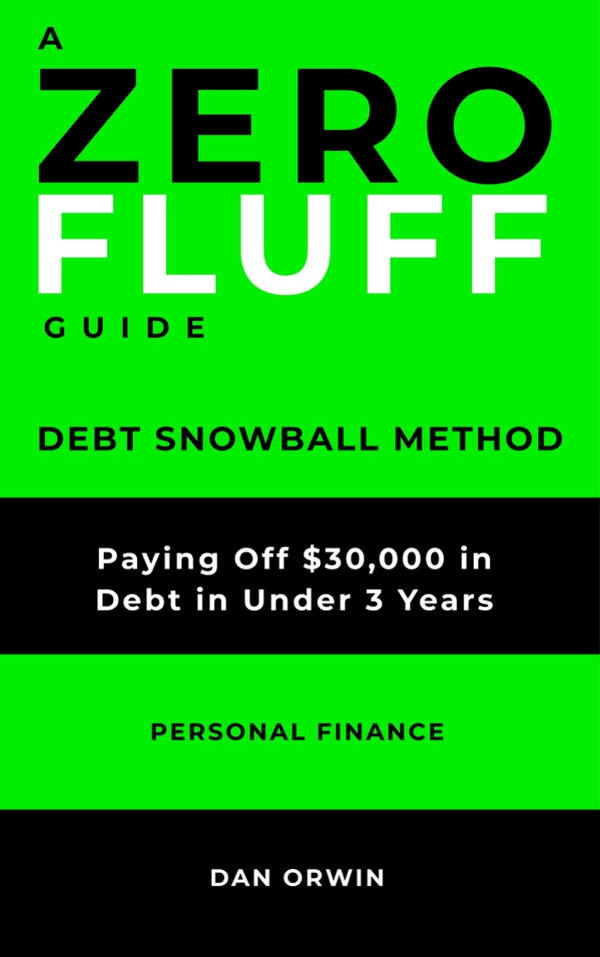
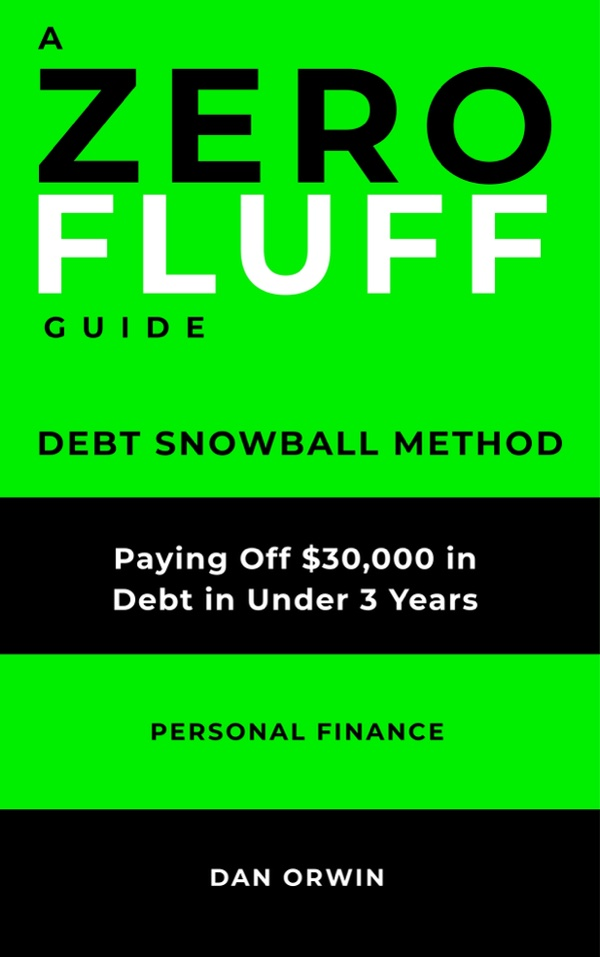
Debt Snowball: pf3 cover, ?v=3, niche strip matches cover height
- Library cover (600x957 q85) and 1200x630 share image rebuilt from
  Drive pf3.jpg; same paths and layout; image URLs bumped to ?v=3.
- The niche strip now sits with the cover in .book-cover-wrap, so it is
  exactly the cover's height (top and bottom aligned) at every width,
  for every book entry. Colour still comes from the niche class.
  Phone text keeps its old position via padding-left on .book-body.

Claude-Session: https://claude.ai/code/session_01VK39D9B8TVfYpwQ8aJiqLP

Changed region(s): [[0.15, 0.5455, 0.84, 0.6364], [0.06, 0.4242, 0.63, 0.4848], [0.66, 0.4242, 0.93, 0.4848]]

diff --git a/index.html b/index.html
@@ -11,13 +11,13 @@
 <meta property="og:url" content="https://zerofluffguides.com">
 <meta property="og:type" content="website">
 <meta property="og:site_name" content="Zero Fluff Guides">
-<meta property="og:image" content="https://zerofluffguides.com/assets/share/zero-fluff-guides-share.jpg?v=2">
+<meta property="og:image" content="https://zerofluffguides.com/assets/share/zero-fluff-guides-share.jpg?v=3">
 <meta property="og:image:width" content="1200">
 <meta property="og:image:height" content="630">
 <meta name="twitter:card" content="summary_large_image">
 <meta name="twitter:title" content="Zero Fluff Guides">
 <meta name="twitter:description" content="Short, direct books built around one problem and one working plan to fix it. Real numbers, real steps, and free tools that do the math for you.">
-<meta name="twitter:image" content="https://zerofluffguides.com/assets/share/zero-fluff-guides-share.jpg?v=2">
+<meta name="twitter:image" content="https://zerofluffguides.com/assets/share/zero-fluff-guides-share.jpg?v=3">
 <link rel="preconnect" href="https://fonts.googleapis.com">
 <link rel="preconnect" href="https://fonts.gstatic.com" crossorigin>
 <link href="https://fonts.googleapis.com/css2?family=Oswald:wght@500;600;700&family=Lora:ital,wght@0,400;0,600;1,400&display=swap" rel="stylesheet">
@@ -146,18 +146,19 @@
     align-items:flex-start;
   }
   .book-row:first-of-type{padding-top:28px;}
+  /* strip + cover share one box, so the strip is always exactly the cover's height */
+  .book-cover-wrap{display:flex;gap:18px;flex-shrink:0;}
   .niche-tab{
     width:5px;
     align-self:stretch;
     flex-shrink:0;
-    margin-top:3px;
   }
   .niche-tab.finance{background:var(--finance);}
   .niche-tab.diy{background:var(--diy);}
   .niche-tab.productivity{background:var(--productivity);}
   .niche-tab.debt-snowball{background:#00EF00;}   /* the cover's green; niche text keeps the darker --finance */
   .book-main{flex:1;min-width:0;display:flex;gap:22px;align-items:flex-start;}
-  .book-cover{width:150px;height:auto;flex-shrink:0;display:block;box-shadow:0 1px 4px rgba(0,0,0,0.18);}
+  .book-cover{width:150px;height:auto;flex-shrink:0;display:block;align-self:flex-start;box-shadow:0 1px 4px rgba(0,0,0,0.18);}
   .book-body{flex:1;min-width:0;}
   .book-meta{
     font-family:'Oswald',sans-serif;
@@ -241,6 +242,7 @@
     .book-meta{flex-wrap:wrap;row-gap:4px;}
     .book-main{flex-direction:column;gap:16px;}
     .book-cover{width:140px;}
+    .book-body{padding-left:23px;}   /* keeps the text lined up with the cover (5px strip + 18px gap) */
     .hero{padding-bottom:16px;}
     .books{padding-top:20px;}
   }
@@ -275,10 +277,13 @@
   <div class="wrap">
     <div class="section-label">THE LIBRARY</div>
 
+    <!-- Book entry: copy this whole .book-row. The strip sits inside .book-cover-wrap so it always matches the cover's height; its colour comes from the niche class (finance / diy / productivity). -->
     <div class="book-row">
-      <div class="niche-tab finance debt-snowball"></div>
       <div class="book-main">
-      <img class="book-cover" src="/assets/covers/debt-snowball.jpg?v=2" width="600" height="957" alt="Debt Snowball Method by Dan Orwin cover">
+      <div class="book-cover-wrap">
+        <div class="niche-tab finance debt-snowball"></div>
+        <img class="book-cover" src="/assets/covers/debt-snowball.jpg?v=3" width="600" height="957" alt="Debt Snowball Method by Dan Orwin cover">
+      </div>
       <div class="book-body">
         <div class="book-meta">
           <span class="niche-name finance">Personal Finance</span>
